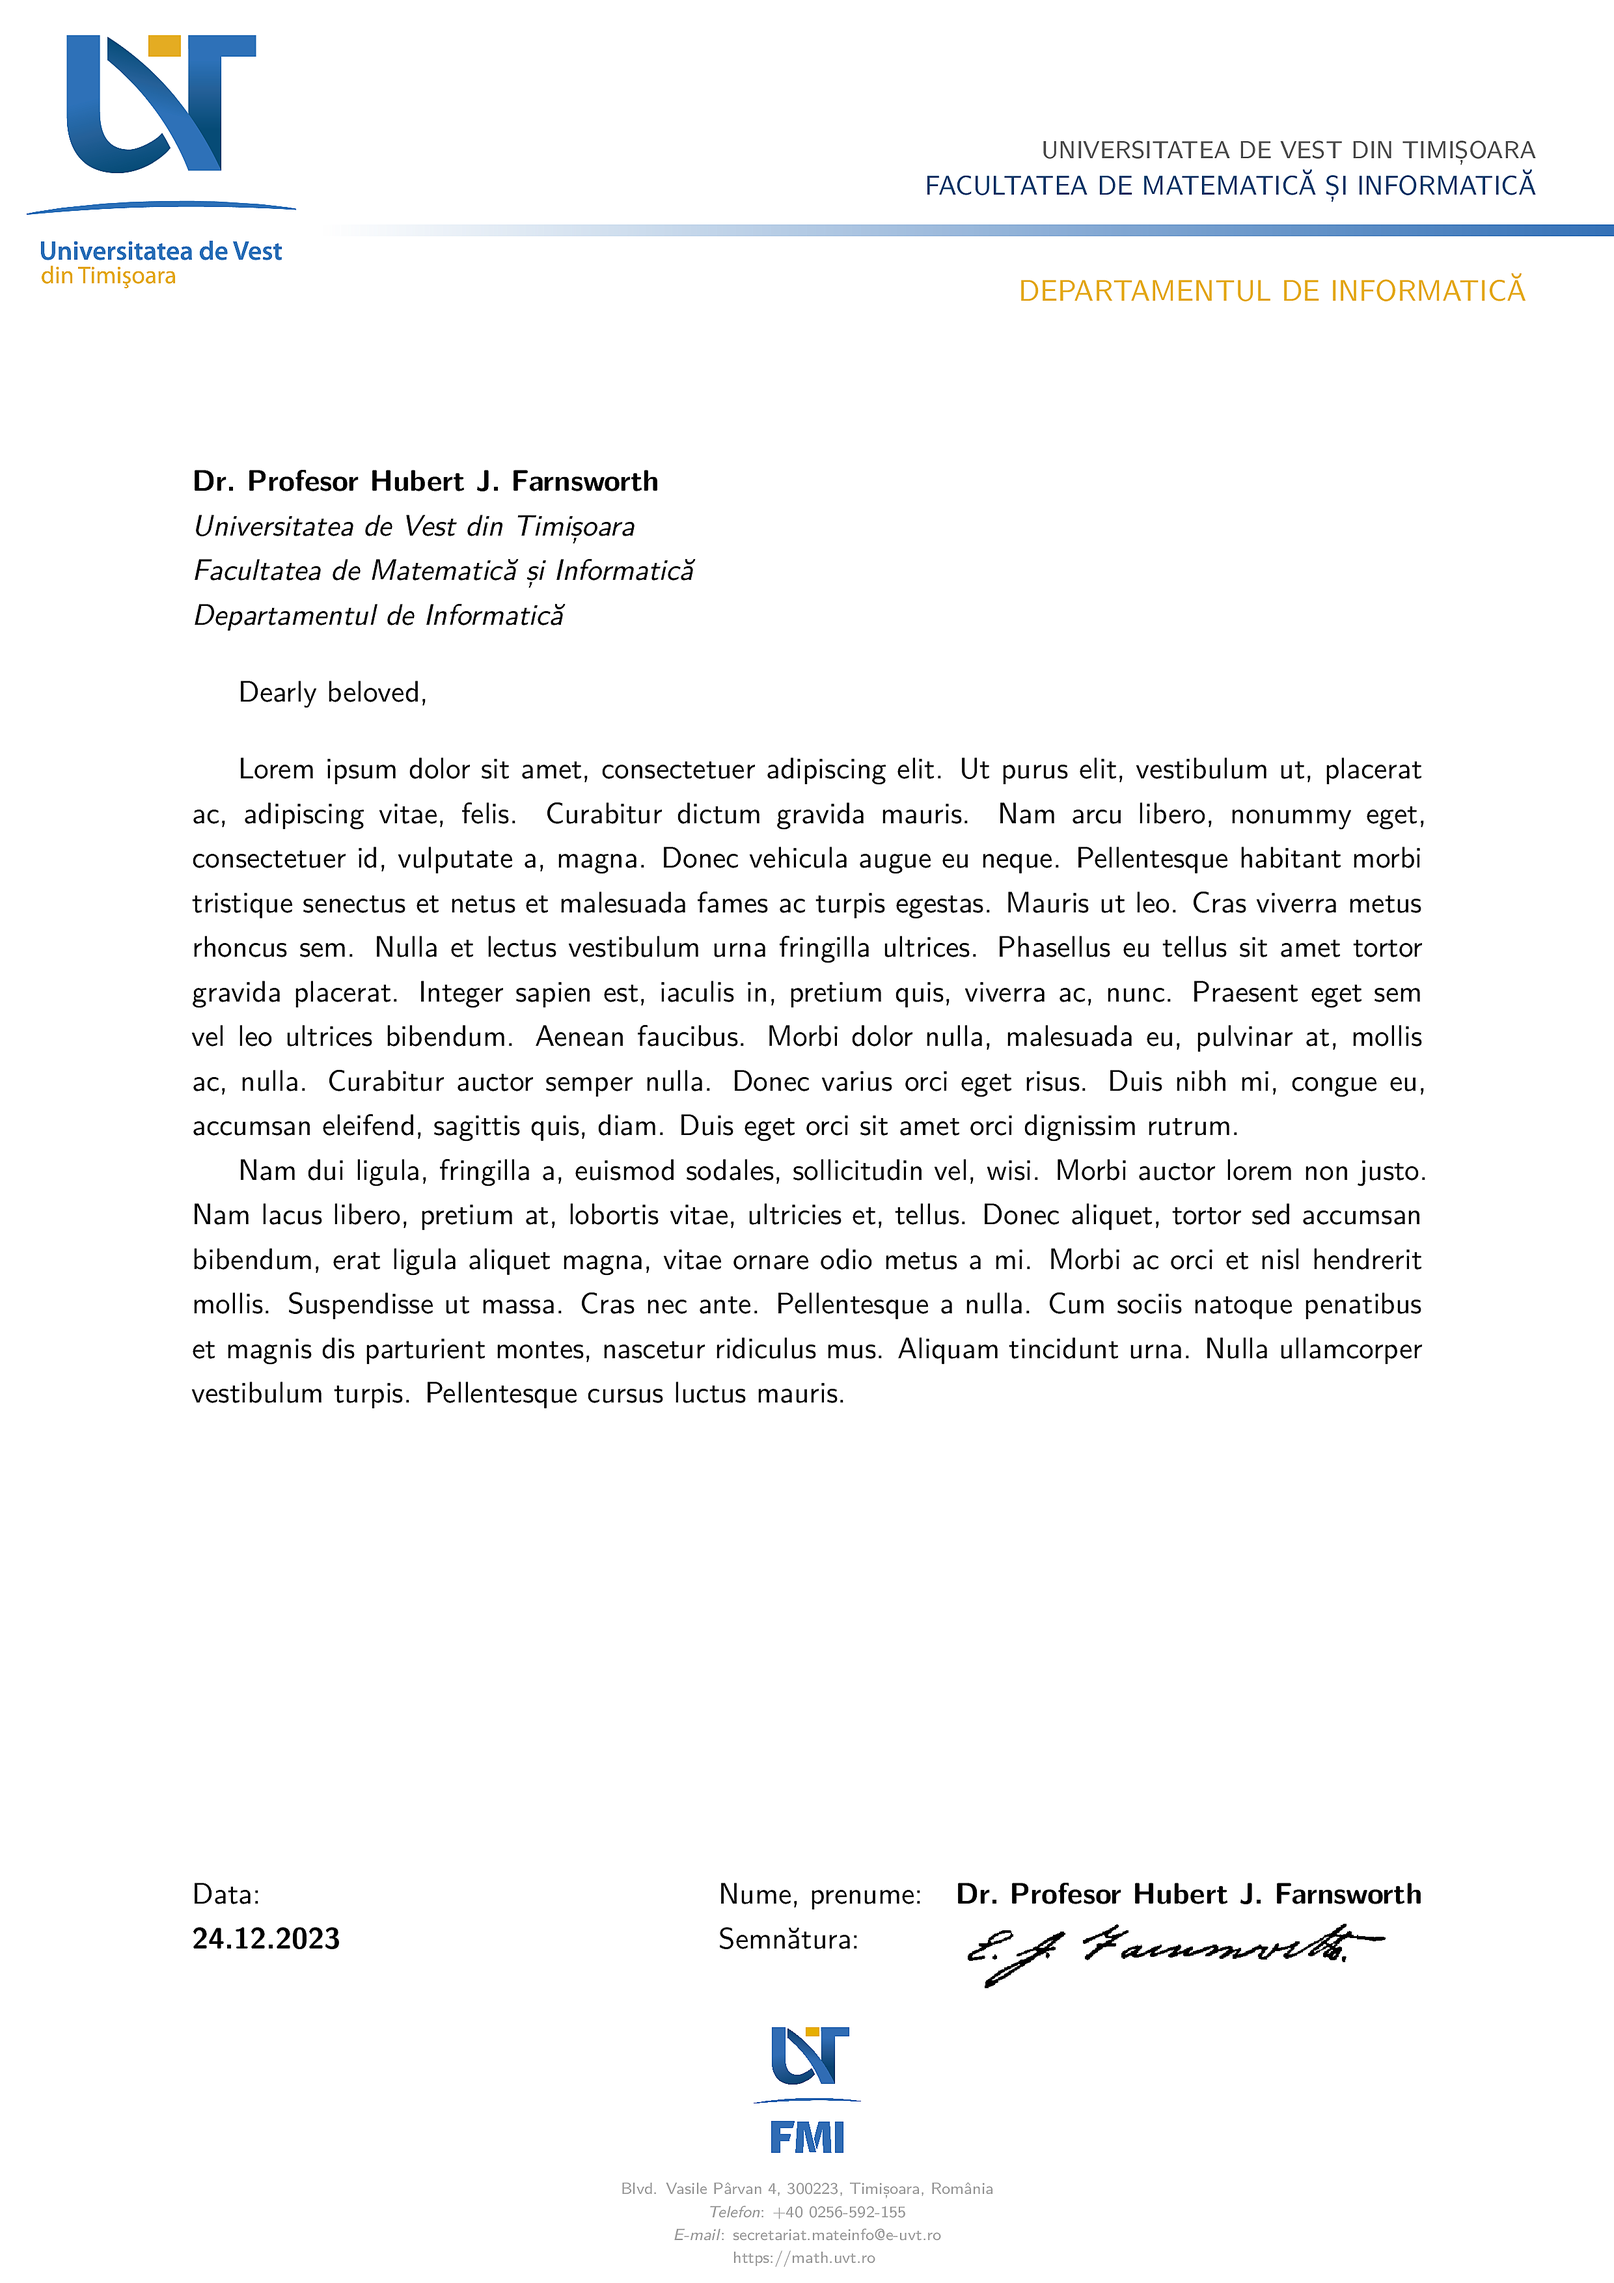
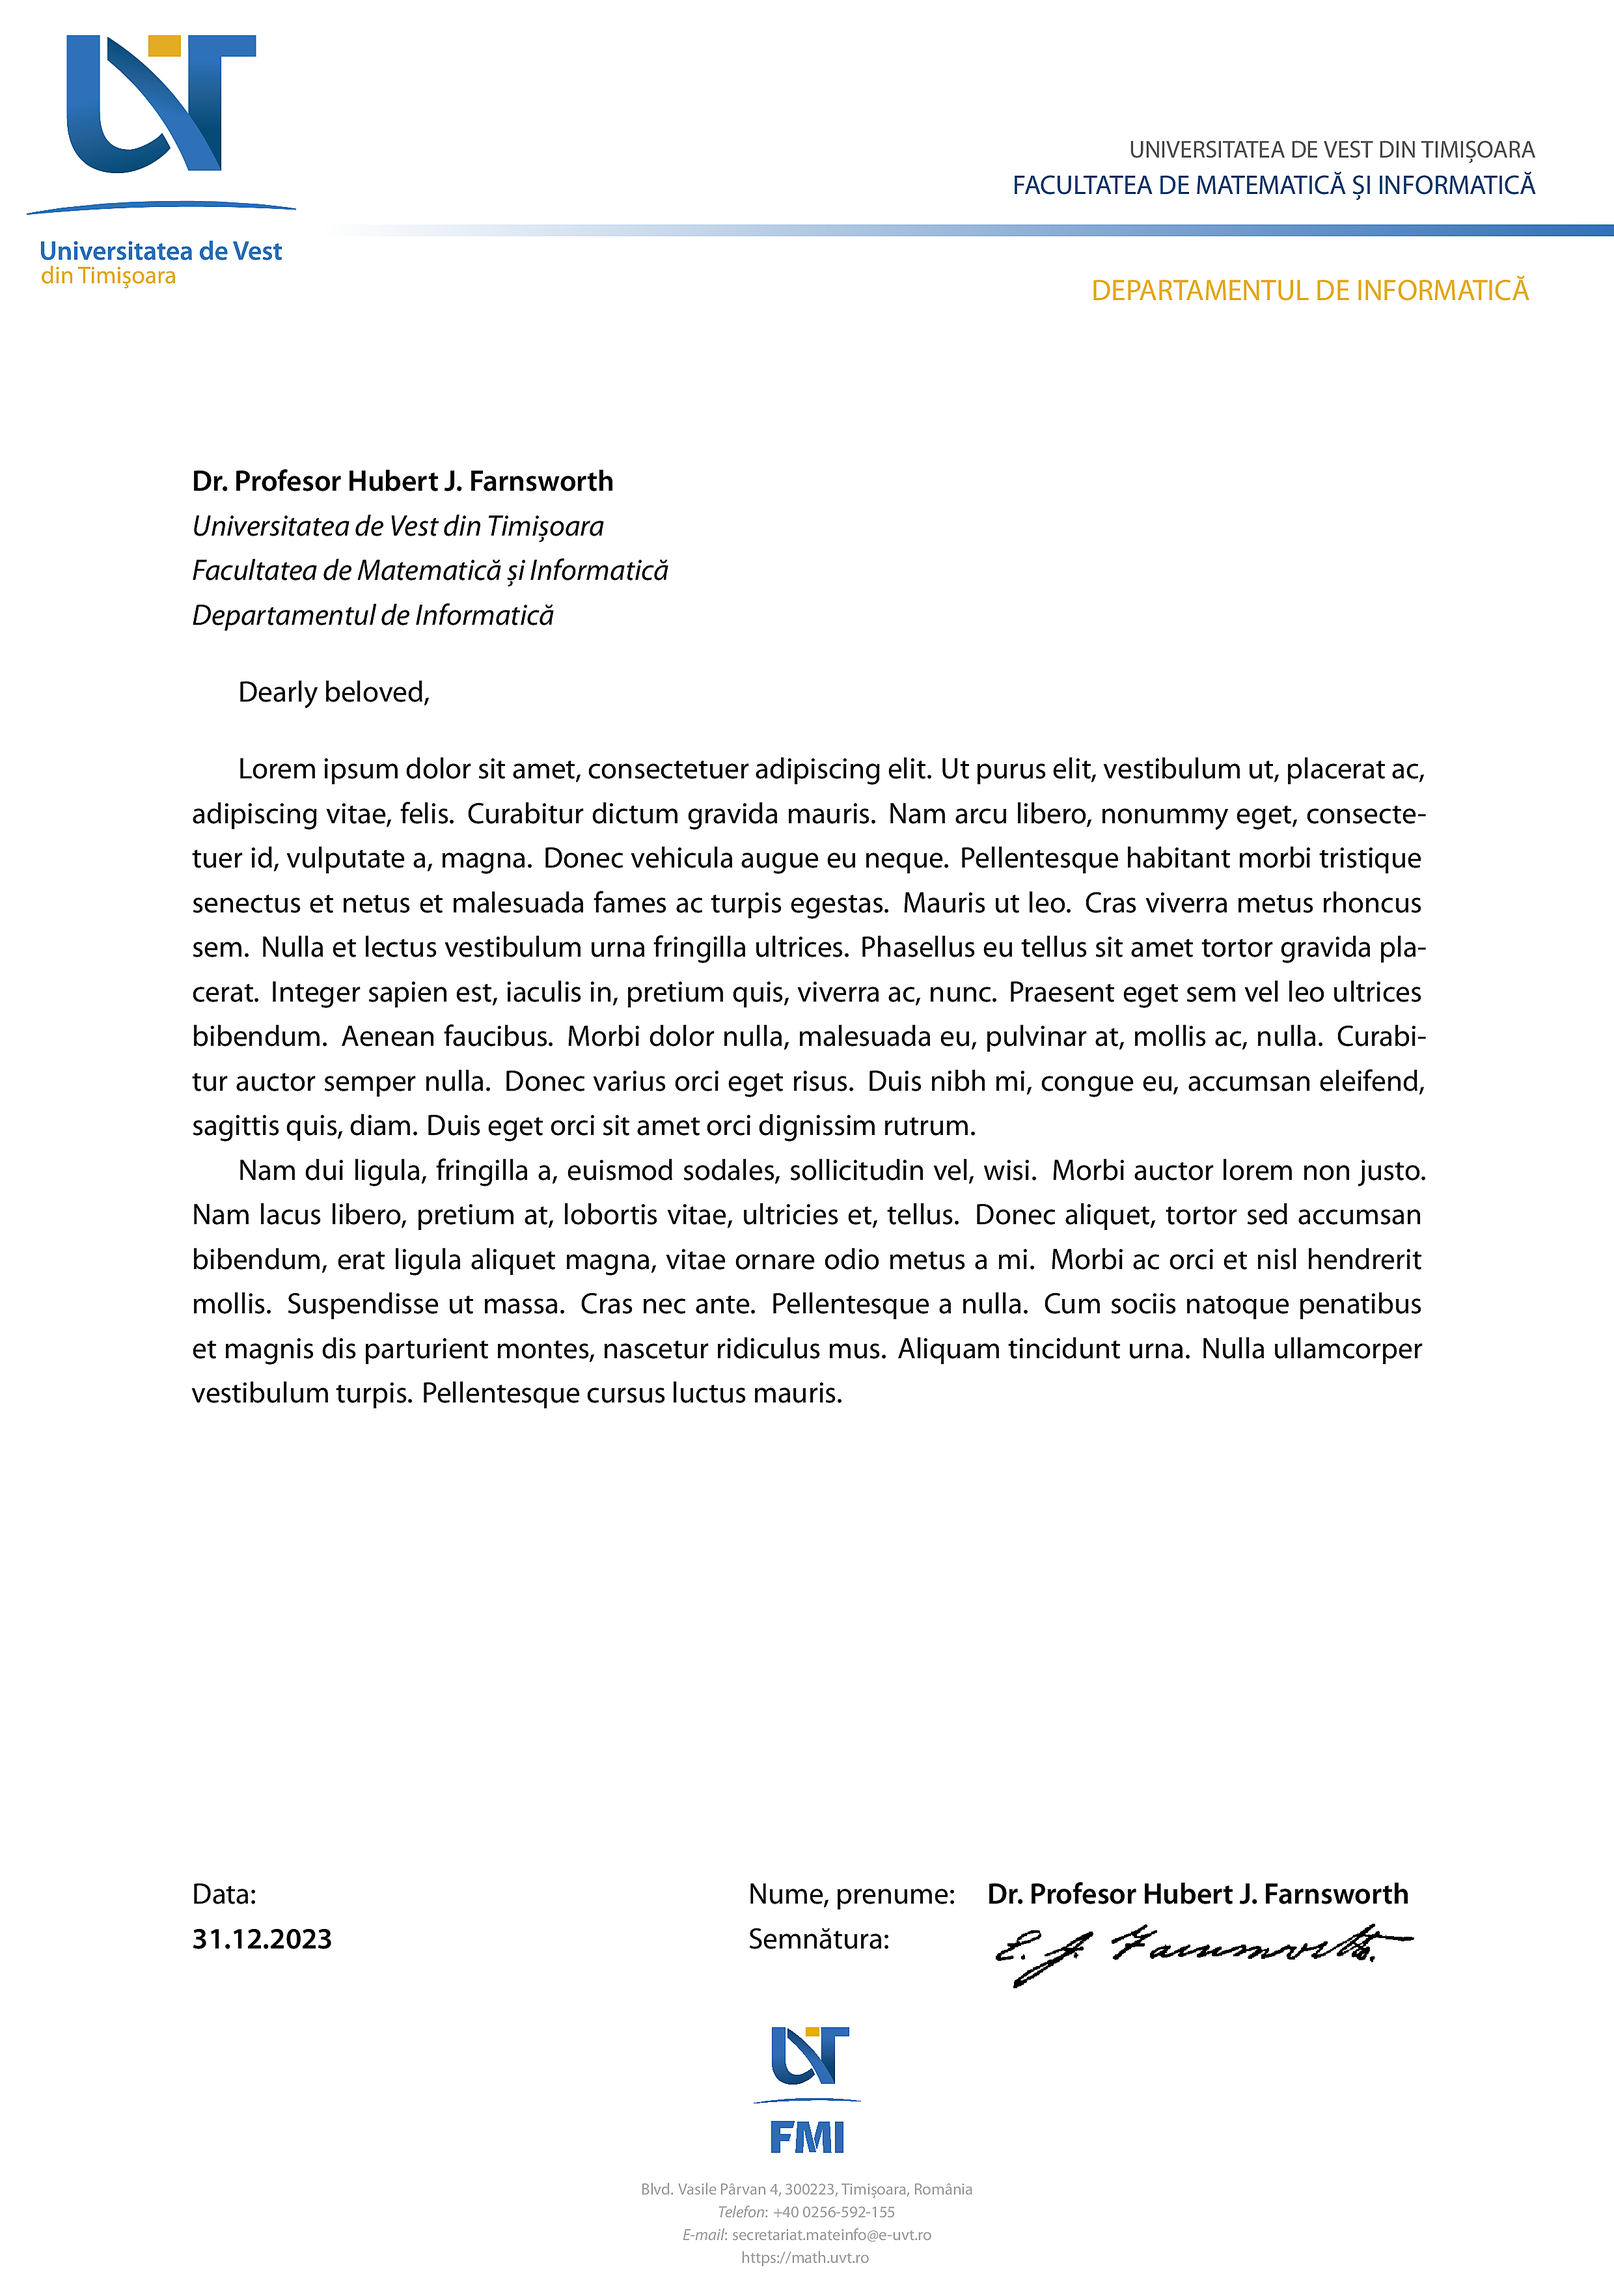
feat: handle missing Myriad Pro

diff --git a/template.tex b/template.tex
@@ -2,6 +2,7 @@
 
 \usepackage[department=fmi]{uvt-letterhead}
 
+\usepackage{ifpdf}
 \usepackage{babel}
 \usepackage{lipsum}
 
@@ -10,7 +11,13 @@
 \geometry{headheight=6cm, top=6cm, left=2.5cm, right=2.5cm, bottom=4cm}
 
 % NOTE: if Myriad Pro is not available use another sans serif font
-% \usepackage{helvet}
+\ifmyriadproenabled\else
+    \ifpdftex
+        \usepackage{helvet}
+    \else
+        \setsansfont{Nimbus Sans}
+    \fi
+\fi
 
 % NOTE: toggle the following lines to switch to Romanian
 % \usepackage[romanian]{babel}
